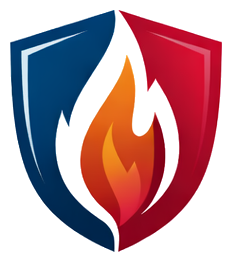
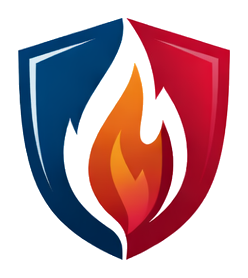
Hero shield: white border, title-case caption, animated flame
- Restore the shield's white border to match the logo (dilated ring)
- Capitalize the caption to "Engineered Fire Safety"
- Add a subtle flame flicker (scale + warm glow pulse) echoing the
  previous animated shield; respects prefers-reduced-motion

Claude-Session: https://claude.ai/code/session_017JqEpTgXiFuGaxYyL5b3w6

diff --git a/styles.css b/styles.css
@@ -194,9 +194,11 @@ p { color: var(--slate); }
   padding: 34px 40px 30px; backdrop-filter: blur(6px); text-align: center;
   box-shadow: 0 30px 70px rgba(0, 0, 0, .3);
 }
-.hero-shield { width: clamp(150px, 20vw, 190px); height: auto; margin: 0 auto 14px; }
-.flame-path { transform-origin: 45px 72px; animation: flameFlicker 2.8s ease-in-out infinite; }
-@keyframes flameFlicker { 0%,100% { transform: scale(1); opacity: 1; } 50% { transform: scale(1.04, 1.07); opacity: .92; } }
+.hero-shield { width: clamp(150px, 20vw, 190px); height: auto; margin: 0 auto 14px; transform-origin: 50% 86%; will-change: transform, filter; animation: heroFlame 2.8s ease-in-out infinite; }
+@keyframes heroFlame {
+  0%, 100% { transform: scale(1, 1); filter: drop-shadow(0 6px 16px rgba(195, 10, 43, .22)); }
+  50% { transform: scale(1.012, 1.035); filter: drop-shadow(0 10px 28px rgba(245, 140, 25, .5)) brightness(1.06); }
+}
 .hero-shield-caption strong { display: block; color: #fff; font-size: 1.02rem; }
 .hero-shield-caption span { font-size: .68rem; letter-spacing: .06em; text-transform: uppercase; color: var(--amber); white-space: nowrap; }
 

diff --git a/index.html b/index.html
@@ -96,7 +96,7 @@
           <div class="hero-shield-card">
             <img class="hero-shield" src="assets/eversafe-shield.png" alt="" aria-hidden="true" width="232" height="262" />
             <div class="hero-shield-caption">
-              <strong>Engineered fire safety</strong>
+              <strong>Engineered Fire Safety</strong>
               <span>Precision · Ownership · Assurance</span>
             </div>
           </div>
